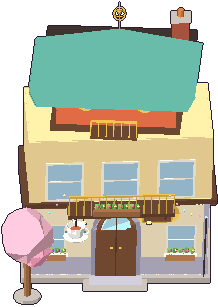
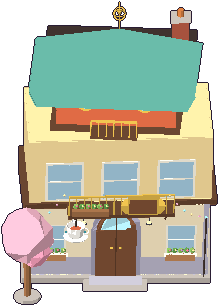
Buildings track BD-5: the INN board hung on the balcony rail, out from under the balcony
Claude-Session: https://claude.ai/code/session_019UpAFzwkCA8UjAyzSzcLiu

Changed region(s): [[0.3303, 0.6156, 0.8257, 0.7329]]

diff --git a/tools/build-civic.py b/tools/build-civic.py
@@ -331,15 +331,15 @@ def inn():
           box(1.9, Dp - 0.6, z3 + 0.6, 0.6, 0.6, 0.08, STONE, 'stone', name='chimney cap'),
           cyl(1.9, Dp - 0.6, z3 + 0.68, 0.1, 0.2, COPPER, 'metal', sides=8, name='chimney pot')]
     M.smoke = (1.9, z3 + 1.2)
-    # the teacup sign and the INN board under it
+    # the teacup sign by the door; the INN board on the balcony rail
     L += teacup_sign(-1.25, -0.02, z1 - 0.7)
-    L += word_board(1.25, -0.06, z1 - 0.5, 'INN', '#7A4E34', '#F8E8B0', '#3A2418')
+    L += word_board(0.8, -1.0, z1 + 0.22, 'INN', '#7A4E34', '#F8E8B0', '#3A2418')  # hung on the balcony rail
     # C's showpieces: string lights from the balcony to a post by the tree; the blossom street tree
     L += string_lights((-1.6, -0.93, z1 + 0.7), (-2.75, -1.1, 2.4), 6, 0.22)
     L += string_lights((1.6, -0.93, z1 + 0.7), (2.75, -0.1, 2.0), 6, 0.2)
     L += [limb((2.75, -0.1, 0.2), (2.75, -0.1, 2.05), 0.03, DARK, 'metal', name='light post')]
     L += blossom_tree(-2.75, -1.1, 1.15)
-    L += LS.flower_box(0, -0.98, z1 + 0.2, 1.4, ['#F07090', '#F4D99A'])
+    L += LS.flower_box(-0.8, -0.98, z1 + 0.2, 1.1, ['#F07090', '#F4D99A'])
     # side and back windows
     for sx in (-1, 1):
         L += [box(sx * (W / 2 + 0.01), D, 0.9, 0.04, 0.8, 0.8, GLASS, glass=M.g(), name='side window')]
